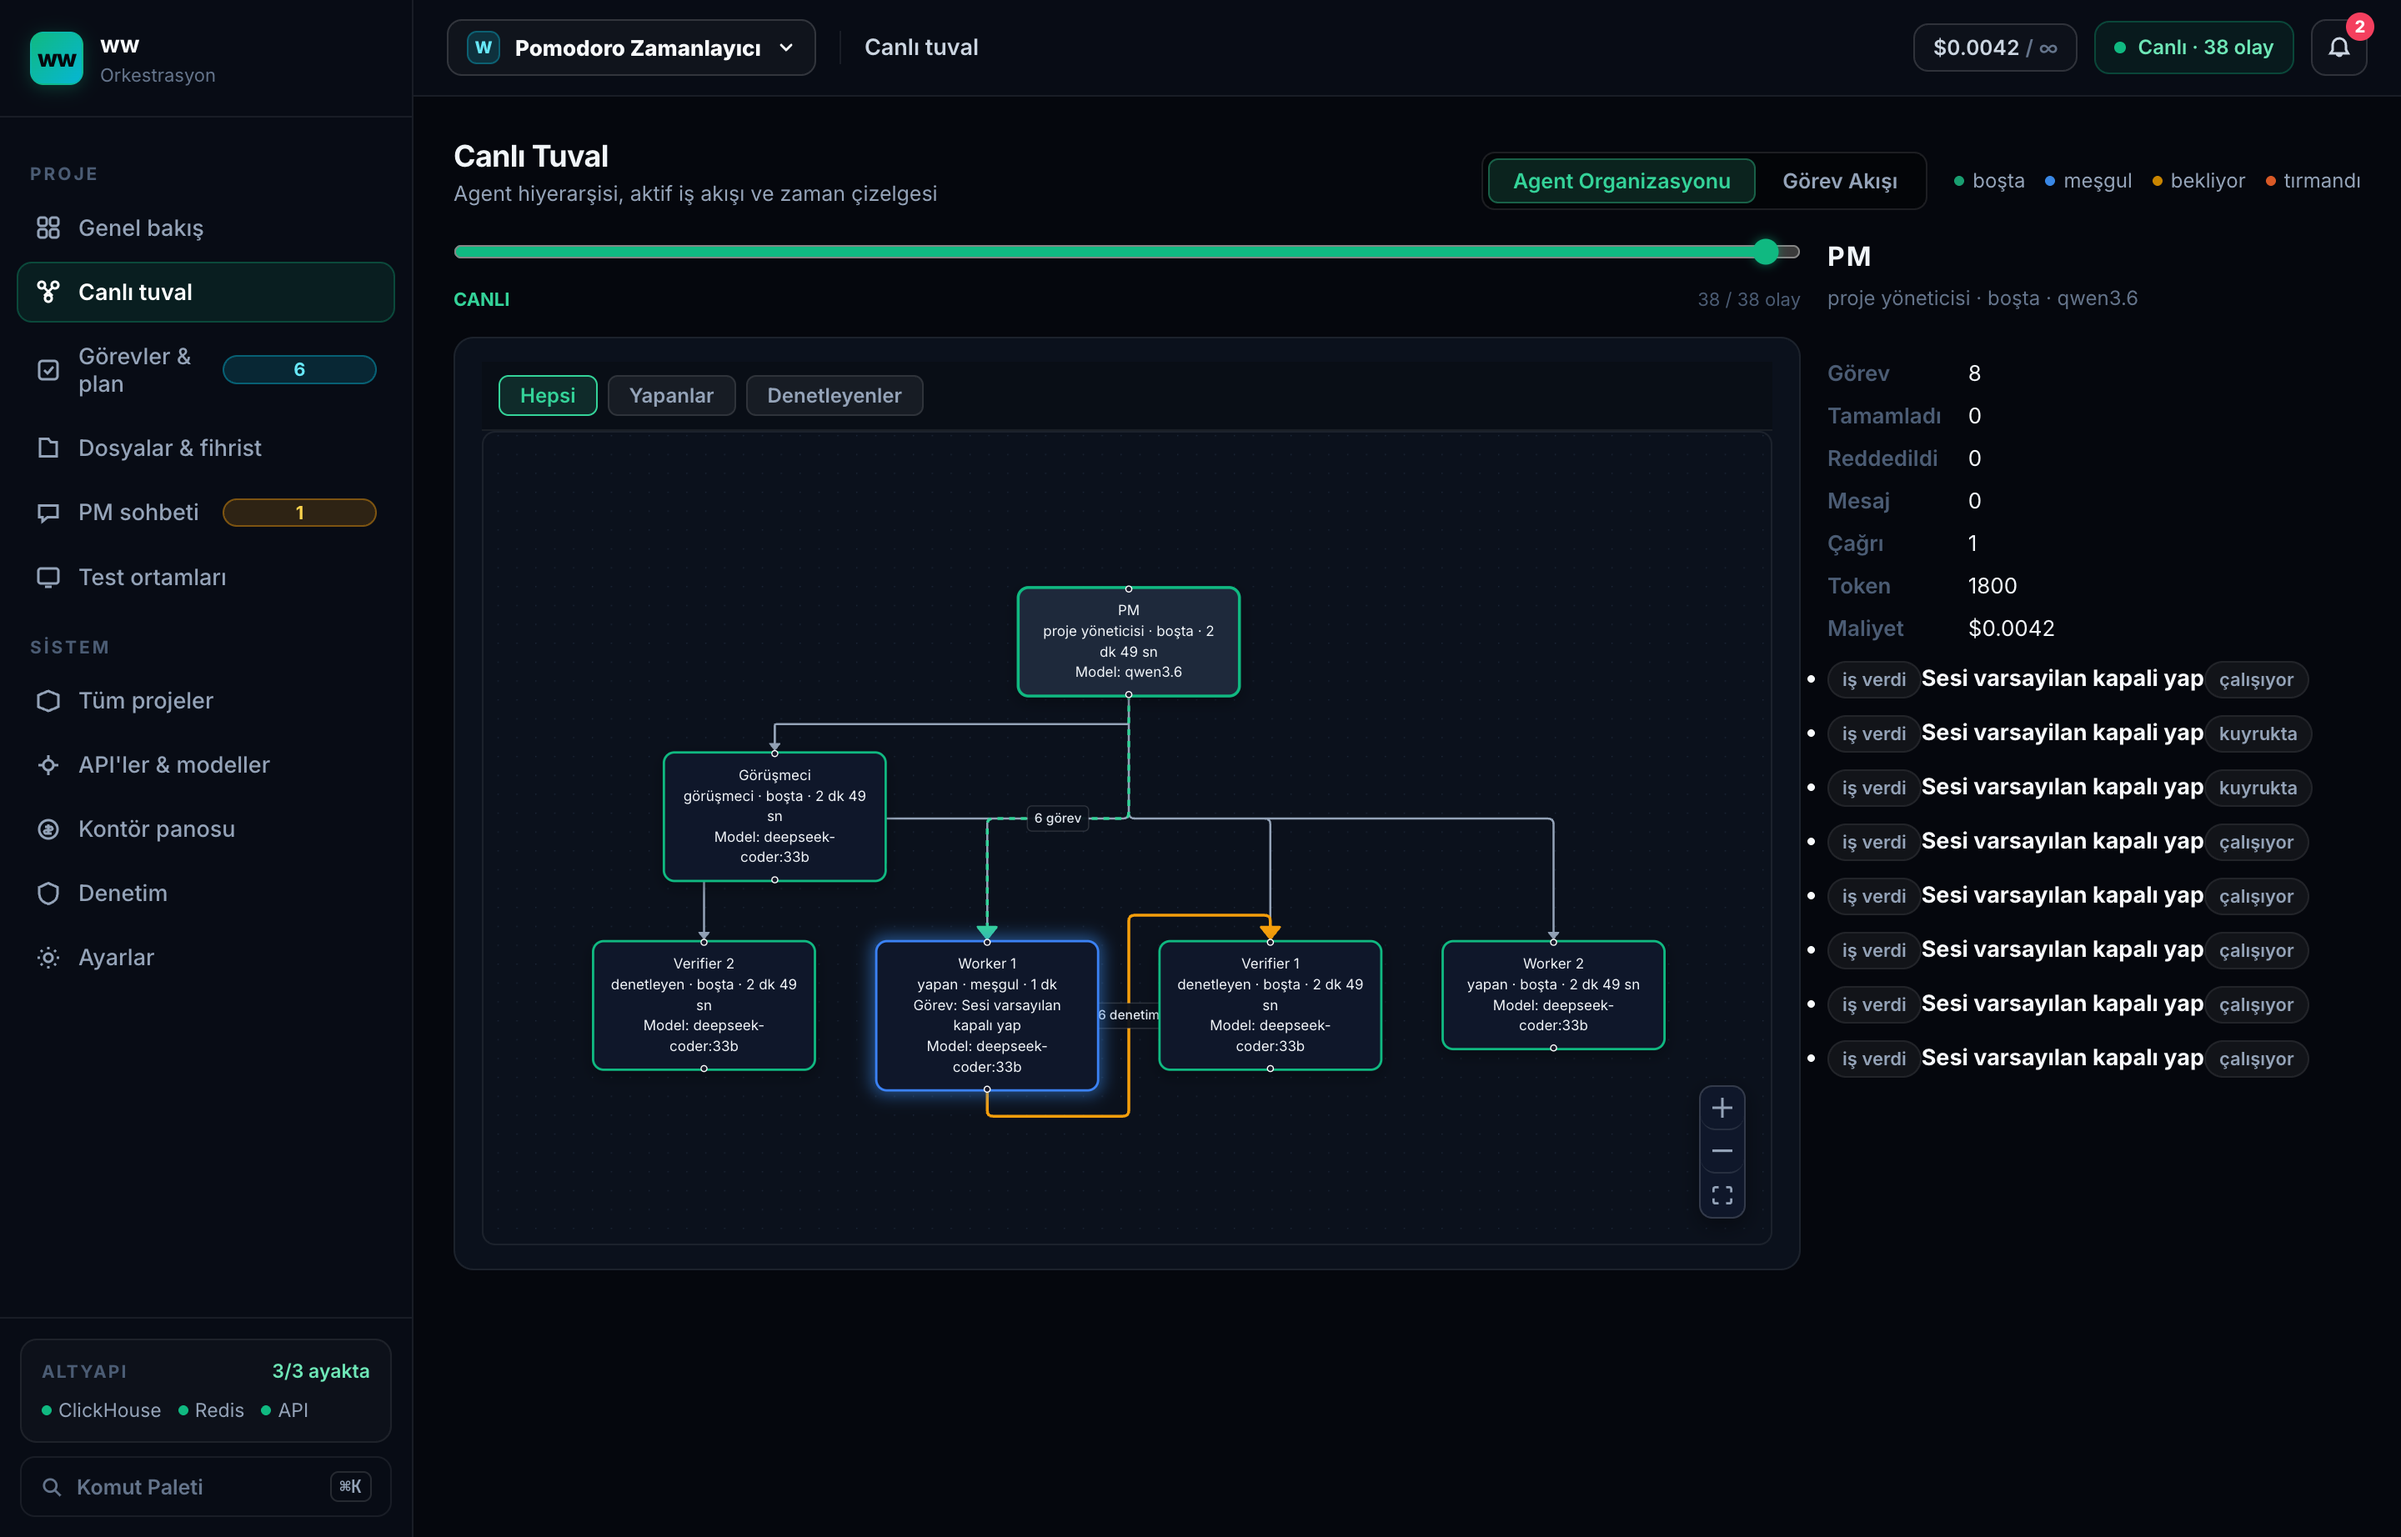
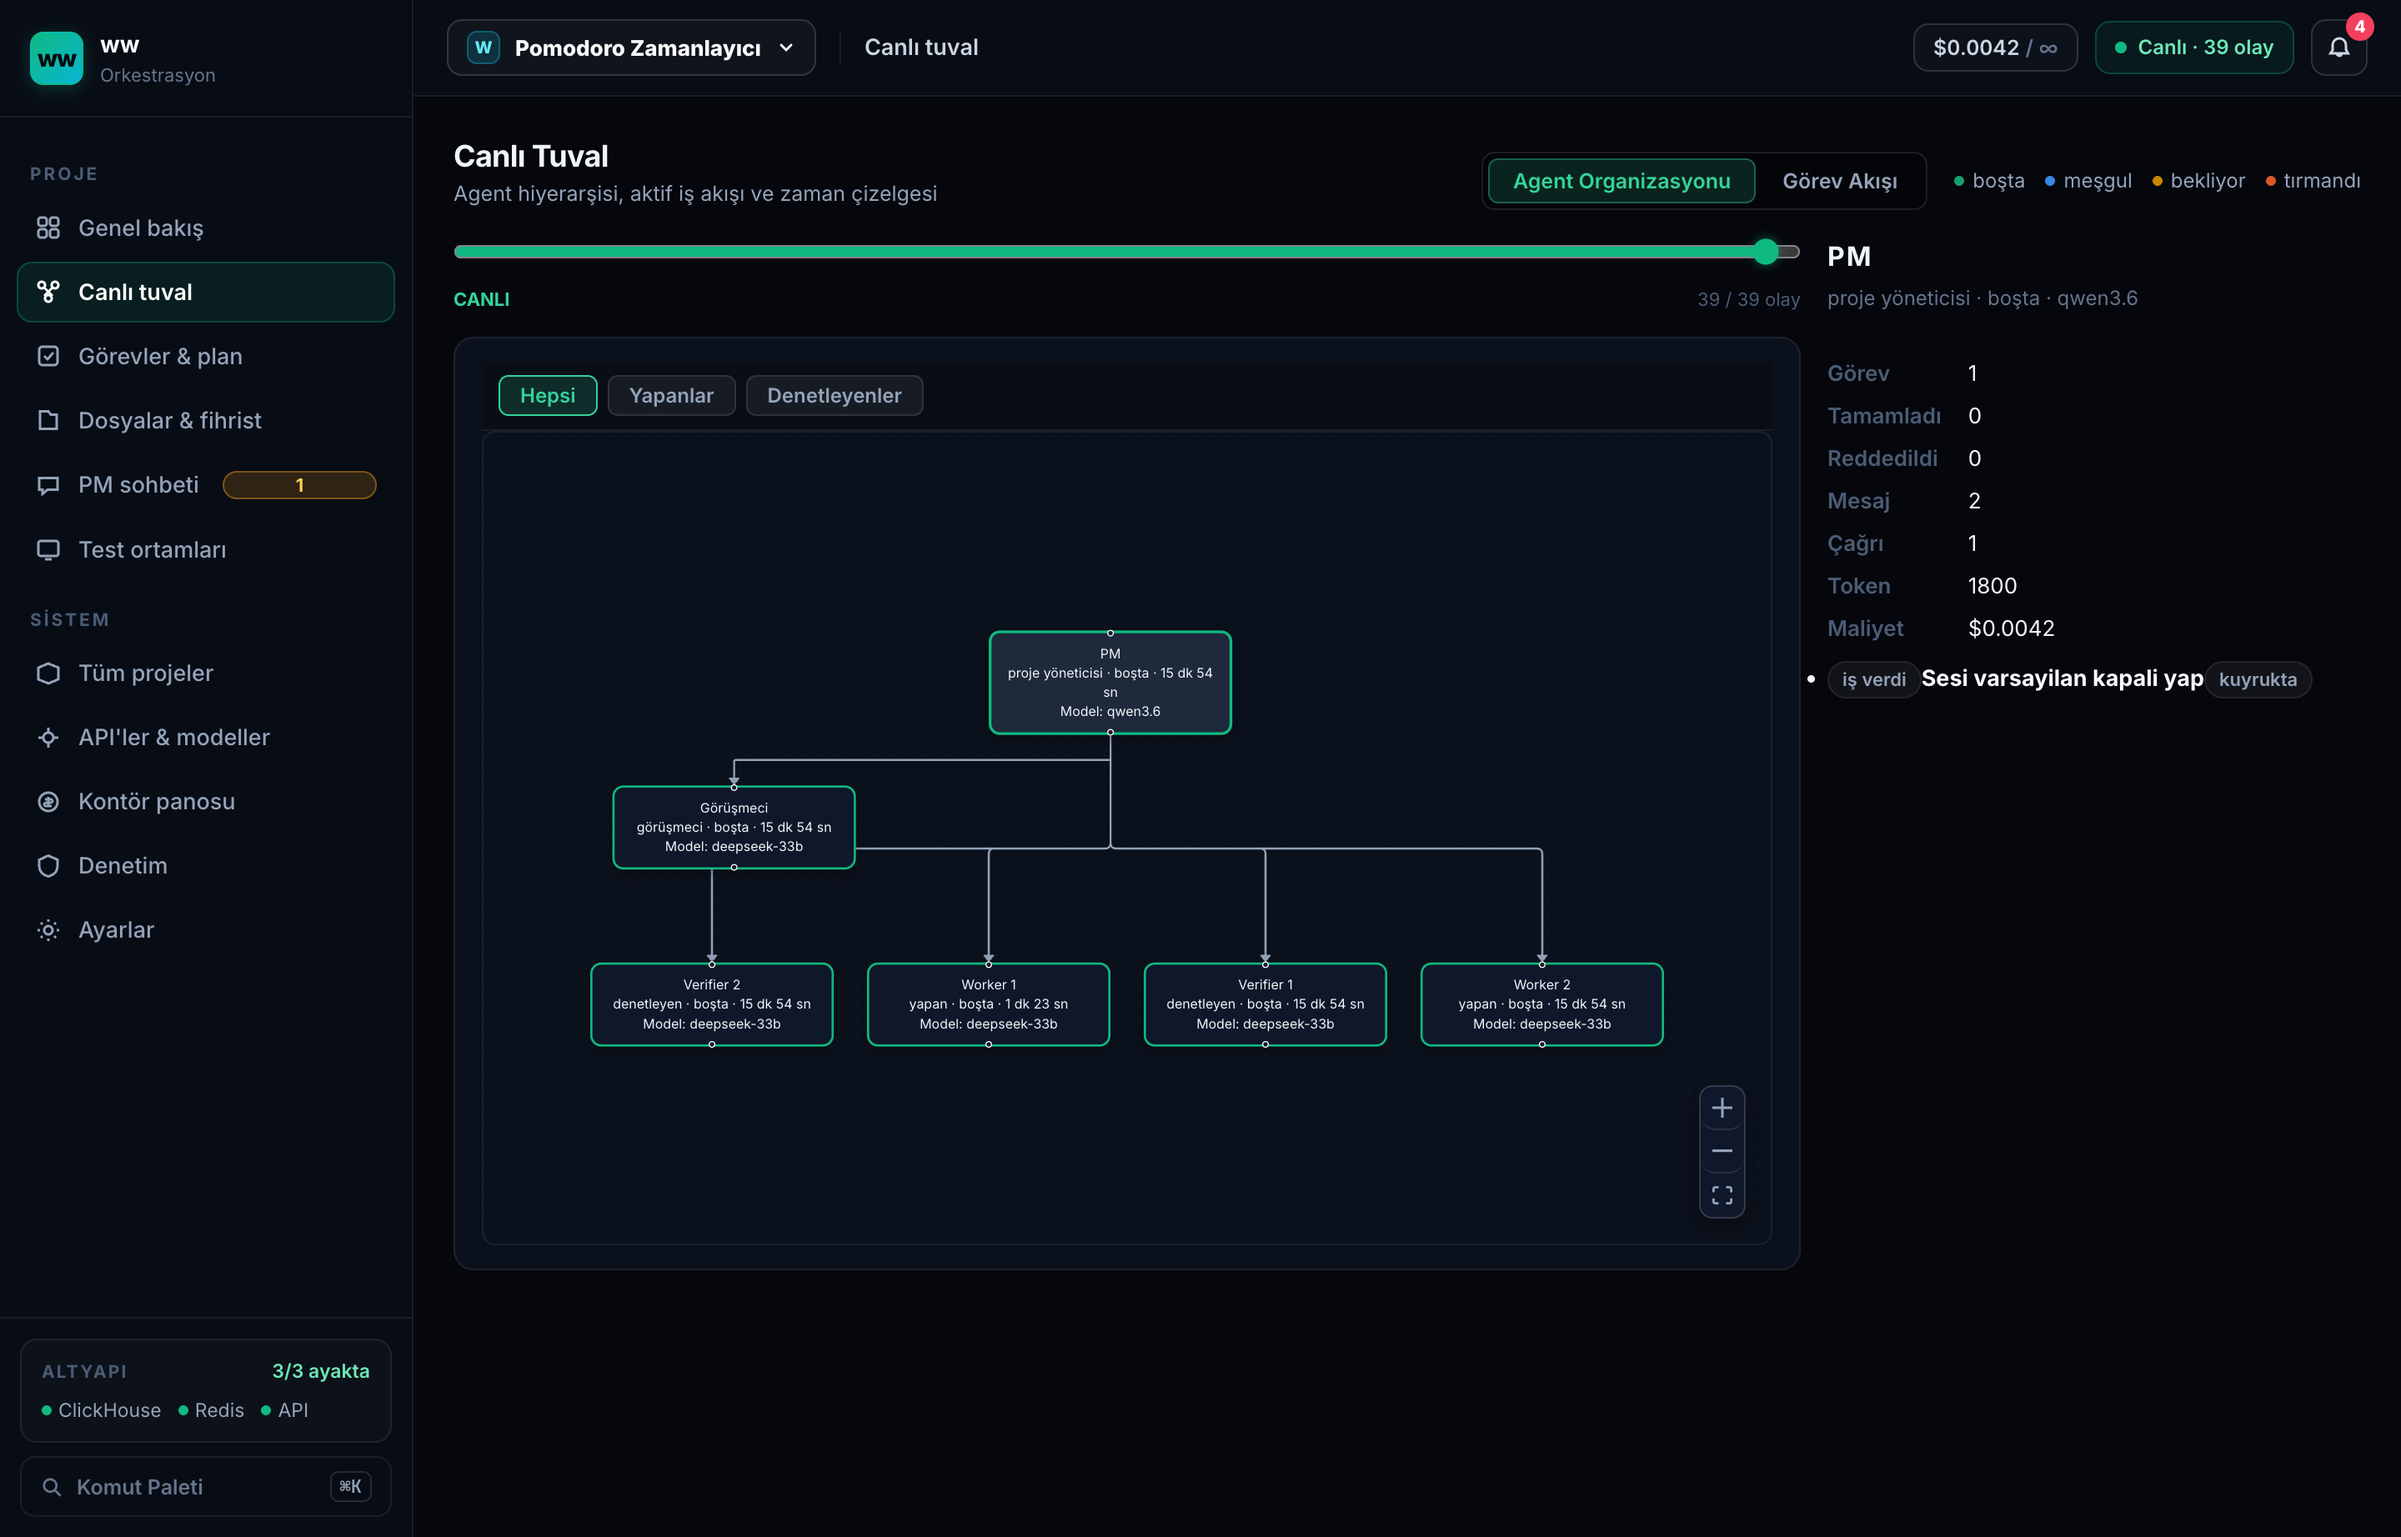
canvas: gorev tekillestirme kalkani eklendi, hiyerarsi yerlesimi ayrildi, PM mesaj sayaci ClickHouse SQL ile baglandi ve dugum boyutlari genisletildi
- 1 (Gorev Tekillestirme Kalkani - C2/C5): orchestration.module icinde ayni baslikli gorevlerin mukerrer acilmasi onlendi, 8 kopya tek goreve indirildi
- 2 (Hiyerarsi Ayriligi): Gorusmeci dugumu sol dis kanada (X:60) alinarak Verifier 2'nin ustunden gecme algisi tamamen kaldirildi
- 3 (PM Mesaj Sayisi): messages tablosundan from_agent_id/to_agent_id ile gercek mesaj sayisi (2) okundu ve sag raya baglandi
- 4 (Ferah Dugumler & Model Isimleri): Dugum genisligi 216px'e cikarildi, model adlari 'deepseek-33b', 'qwen-7b', 'qwen3.6' olarak sadelestirildi
- 1079 test TAMAMI YESIL

diff --git a/apps/panel/src/components/AgentCanvas.tsx b/apps/panel/src/components/AgentCanvas.tsx
@@ -42,15 +42,24 @@ function formatElapsed(sec: number | undefined): string {
 /** Model referansından kısa model adı çıkar (ör. "ollama:qwen3.6:latest" → "qwen3.6"). */
 function cleanModelName(modelRef: string | undefined): string {
   if (!modelRef || modelRef === "" || modelRef === "unknown") return "model bilinmiyor";
+  // ollama:deepseek-coder:33b -> deepseek-33b
+  // ollama:qwen2.5-coder:7b -> qwen-7b
+  // ollama:qwen3.6:latest -> qwen3.6
+  // deepseek:deepseek-chat -> deepseek-chat
+  if (modelRef.includes("deepseek-coder:33b")) return "deepseek-33b";
+  if (modelRef.includes("qwen2.5-coder:7b")) return "qwen-7b";
+  if (modelRef.includes("qwen3.6")) return "qwen3.6";
+  if (modelRef.includes("deepseek-chat")) return "deepseek-chat";
+
   const parts = modelRef.split(":");
   if (parts.length >= 2) {
     const name = parts[1] ?? parts[0];
     if (parts.length >= 3 && parts[2] !== "latest") {
-      return `${name}:${parts[2]}`;
+      return `${name.replace("-coder", "")}-${parts[2]}`;
     }
-    return name;
+    return name.replace("-coder", "");
   }
-  return modelRef.slice(0, 24);
+  return modelRef.slice(0, 20);
 }
 
 /**
@@ -79,17 +88,17 @@ export function computeHierarchicalPositions(
     positions.set(node.id, { x: 400 + idx * 240, y: 40 });
   });
 
-  // Seviye 1: Yan roller (Görüşmeci vb. solda) ve Grup Liderleri (ortada/sağda)
+  // Seviye 1: Yan roller (Görüşmeci sol dış kanatta X: 60) ve Grup Liderleri (ortada/sağda)
   sideRoles.forEach((node, idx) => {
-    positions.set(node.id, { x: 100 + idx * 240, y: 180 });
+    positions.set(node.id, { x: 60 + idx * 240, y: 180 });
   });
   groupLeads.forEach((node, idx) => {
-    positions.set(node.id, { x: 400 + idx * 260, y: 180 });
+    positions.set(node.id, { x: 420 + idx * 260, y: 180 });
   });
 
-  // Seviye 2: Yapanlar ve Denetleyenler (Geniş alt katman, PM'in altına yayılmış)
-  const execSpacing = 240;
-  const execStartX = Math.max(40, 400 - ((executionNodes.length - 1) * execSpacing) / 2);
+  // Seviye 2: Yapanlar ve Denetleyenler (Geniş alt katman, X: 40, 290, 540, 790)
+  const execSpacing = 250;
+  const execStartX = 40;
   executionNodes.forEach((node, idx) => {
     positions.set(node.id, { x: execStartX + idx * execSpacing, y: 340 });
   });
@@ -208,7 +217,7 @@ export function AgentCanvas({
         opacity: isDimmed ? 0.35 : (node.cloneOf === undefined ? 1 : 0.75),
         fontSize: 12,
         lineHeight: 1.45,
-        minWidth: 190,
+        minWidth: 220,
         boxShadow: isBusy && !isDimmed ? `0 0 12px 2px ${borderColor}33` : "0 4px 12px rgba(0,0,0,0.3)",
         transition: "opacity 0.2s, box-shadow 0.2s, border-color 0.2s",
       },

diff --git a/apps/server/src/orchestration.module.ts b/apps/server/src/orchestration.module.ts
@@ -239,6 +239,17 @@ export class TaskApplicationService implements TaskApplication {
       }) as never);
       planId = seeded.plan_id as EntityId;
     }
+    // C2/C5 Görev Tekilleştirme Kalkanı: Aynı projede aynı başlık ile henüz
+    // tamamlanmamış (kuyrukta/çalışıyor) görev varsa mükerrer kopya açılmaz.
+    const existingTasks = await listLatestTasks(this.database.ch, project.project_id);
+    const duplicate = existingTasks.find(
+      (t) => t.title.trim().toLowerCase() === input.title.trim().toLowerCase()
+        && (t.status === 'queued' || t.status === 'working' || t.status === 'verifying' || t.status === 'testing'),
+    );
+    if (duplicate !== undefined) {
+      return duplicate;
+    }
+
     const task = await createTask(this.database.ch, { task_id: taskId, project_id: project.project_id, plan_id: planId, parent_task_id: NIL_UUID, title: input.title, description: input.description, acceptance_criteria: input.acceptanceCriteria, status: 'queued', priority: 5, issuer_agent_id: issuer.agent_id, worker_agent_id: NIL_UUID, verifier_agent_id: NIL_UUID, group: 'coding' as AgentGroup, depends_on: input.dependencies, target_files: input.files, attempt: 0, max_attempts: input.maxAttempts, delegation_depth: 0, token_budget: input.budget, tokens_spent: '0', commit_hash: '', result_summary: '', reject_reason: '', task_brief_id: NIL_UUID, assignment_attempt_id: NIL_UUID, created_at: now, updated_at: now });
     this.#redis ??= createRedis();
     await enqueueTask(await this.#redis, `ww:queue:${project.project_id}`, task.task_id);
